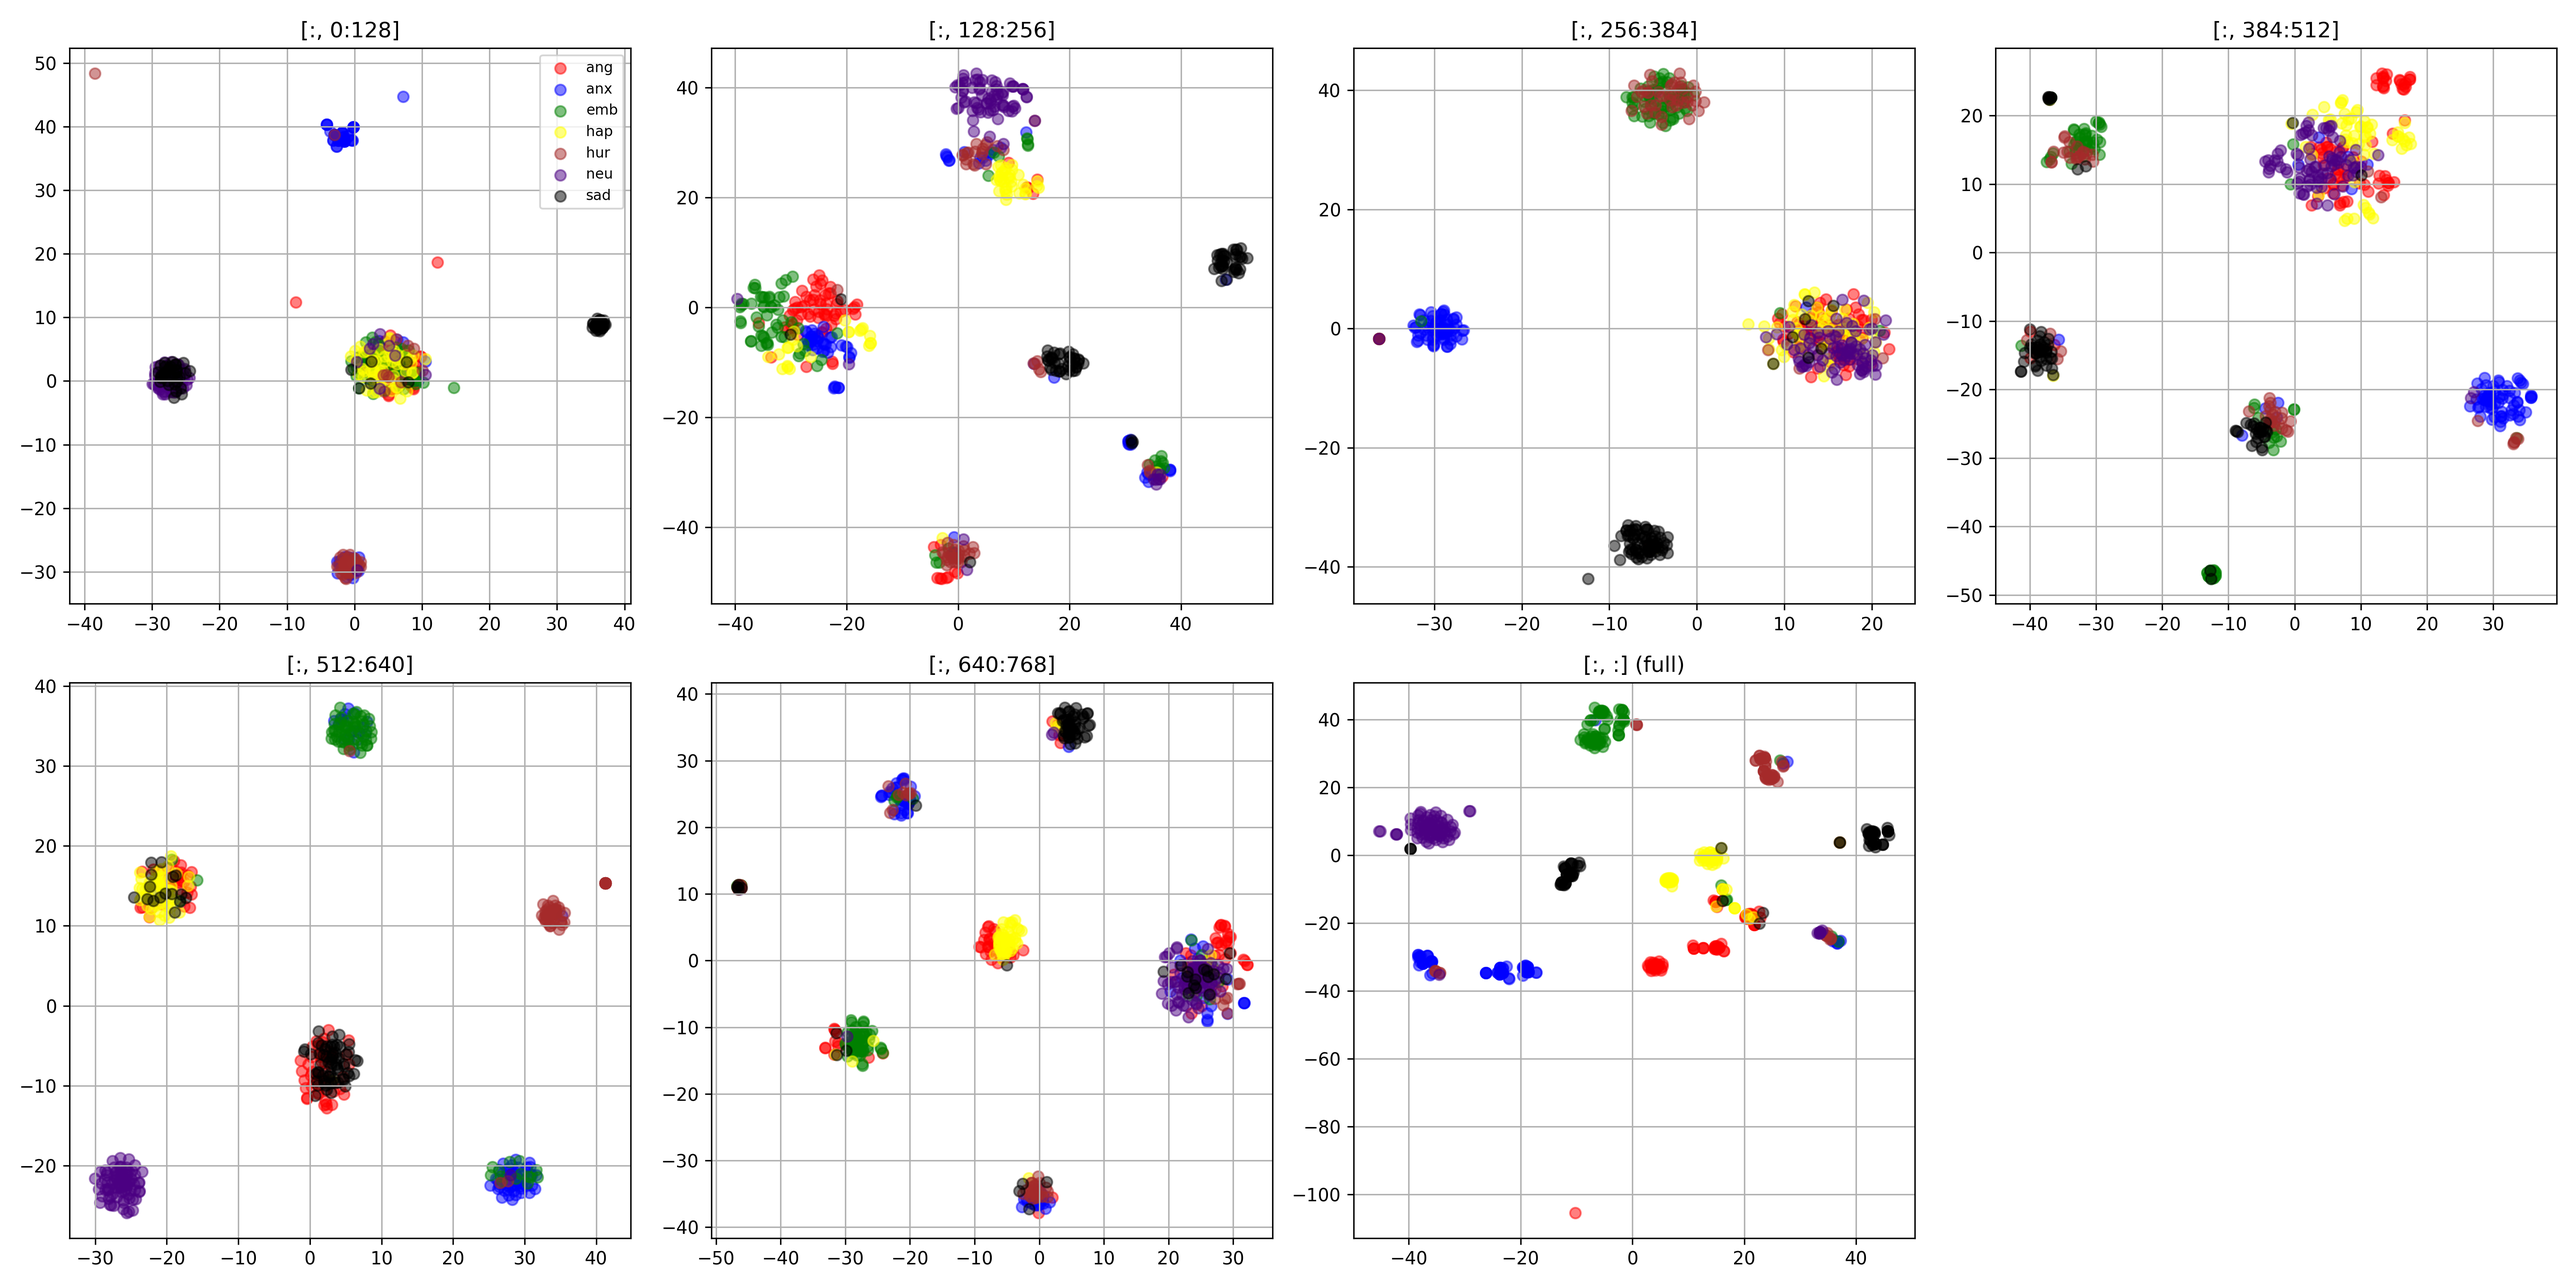
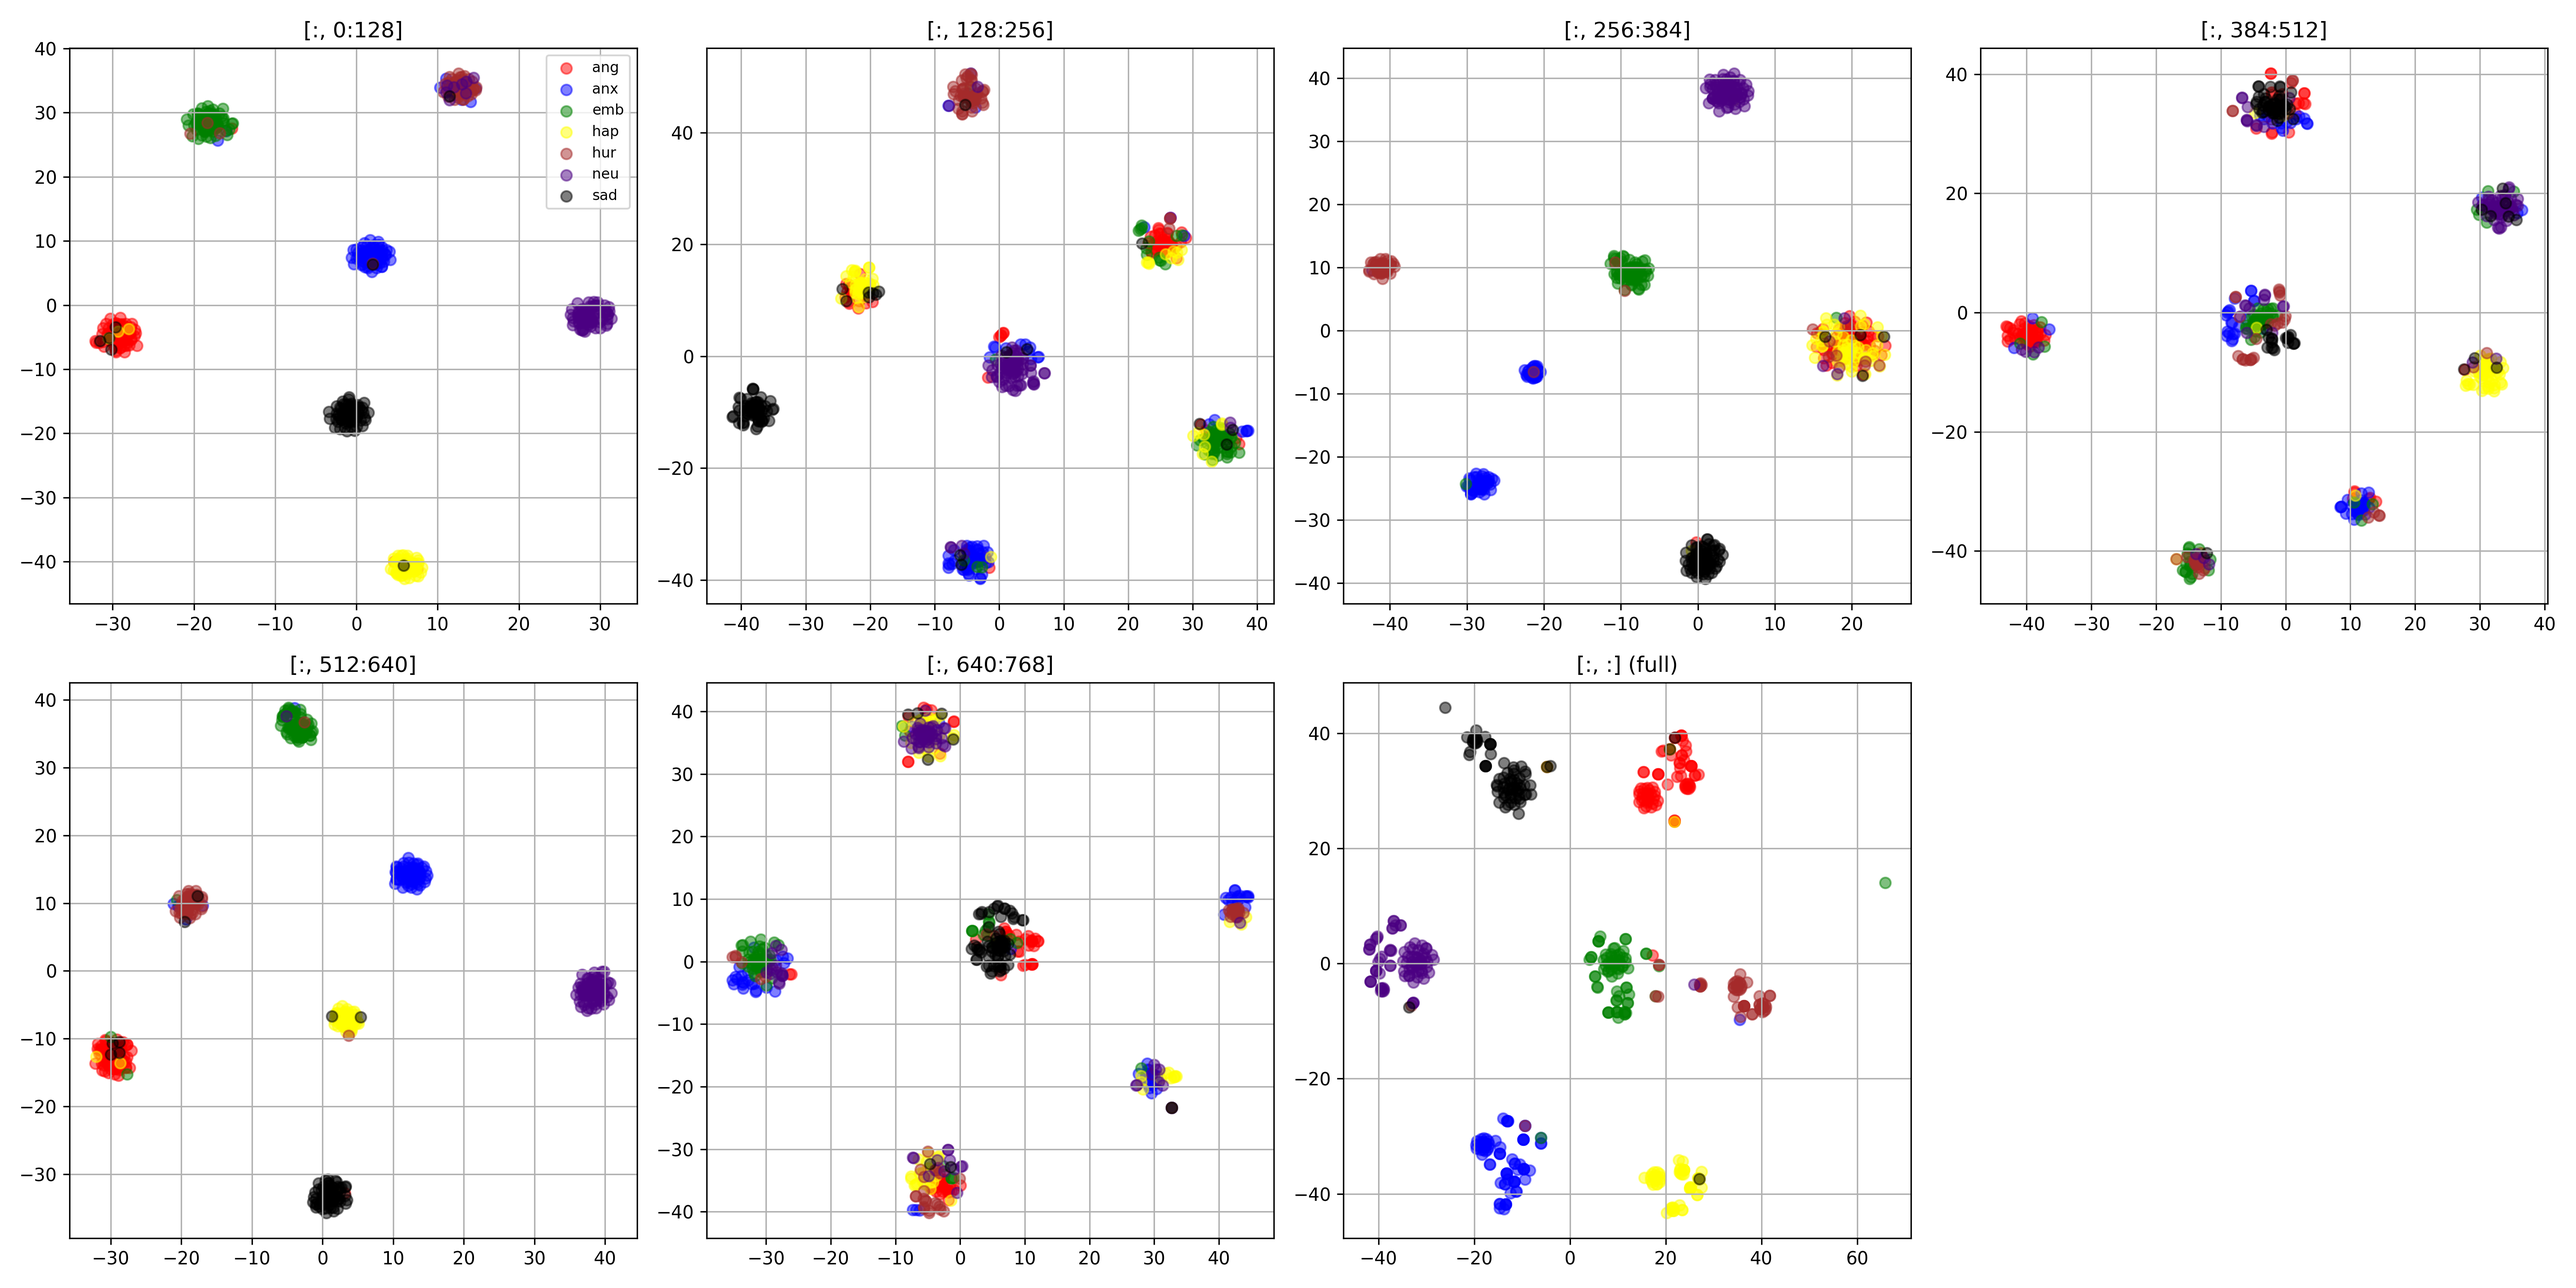
changed classifier loss beta (different)

diff --git a/train.py b/train.py
@@ -238,88 +238,96 @@ def train(rank, args, configs, batch_size, num_gpus):
         epoch += 1
         
 
-        val_path =  '/root/mydir/ICASSP2024_FS2-develop/ICASSP2024_FS2-develop/preprocessed_data/emo_kr_22050/train.txt'
+        # val_path =  '/root/mydir/ICASSP2024_FS2-develop/ICASSP2024_FS2-develop/preprocessed_data/emo_kr_22050/train.txt'
 
-        with open(val_path, encoding='utf-8') as f:
-            val_infos = [line.strip().split("|") for line in f]
+        # with open(val_path, encoding='utf-8') as f:
+        #     val_infos = [line.strip().split("|") for line in f]
 
-        import json
-        with open("preprocessed_data/emo_kr_22050/emotions.json") as f:
-            emotion_map = json.load(f)
+        # import json
+        # with open("preprocessed_data/emo_kr_22050/emotions.json") as f:
+        #     emotion_map = json.load(f)
 
-        val_basenames = []
-        emotions = []
-        styles = []
-        z_mels = []
-        z_pitchs = []
-        z_energies = []
+        # val_basenames = []
+        # emotions = []
+        # styles = []
+        # z_mels = []
+        # z_pitchs = []
+        # z_energies = []
 
-        for i in range(len(val_infos)):
-            if i % 25 != 0: continue
-            val_info = val_infos[i]
-            val_basenames.append(val_info[0])
-            emotions.append(emotion_map[val_info[2]])
+        # for i in range(len(val_infos)):
+        #     if i % 25 != 0: continue
+        #     val_info = val_infos[i]
+        #     val_basenames.append(val_info[0])
+        #     emotions.append(emotion_map[val_info[2]])
         
-        for i in range(len(val_basenames)):
-            val_basename = val_basenames[i]
-            emotion = torch.tensor(emotions[i], device=device).unsqueeze(0)
-            mel = np.load(f'preprocessed_data/emo_kr_22050/mel/{val_basename[:3]}-mel-{val_basename}.npy')
-            mel = torch.from_numpy(mel).float().to(device)
-            mel = mel.unsqueeze(0)
+        # for i in range(len(val_basenames)):
+        #     val_basename = val_basenames[i]
+        #     emotion = torch.tensor(emotions[i], device=device).unsqueeze(0)
+        #     mel = np.load(f'preprocessed_data/emo_kr_22050/mel/{val_basename[:3]}-mel-{val_basename}.npy')
+        #     mel = torch.from_numpy(mel).float().to(device)
+        #     mel = mel.unsqueeze(0)
 
-            pitch_path = f"/root/mydir/ICASSP2024_FS2-develop/ICASSP2024_FS2-develop/normalized_data/pitch_only/{val_basename}_pitch.npy"
-            energy_path = f"/root/mydir/ICASSP2024_FS2-develop/ICASSP2024_FS2-develop/normalized_data/energy_only/{val_basename}_energy.npy"
+        #     pitch_path = f"/root/mydir/ICASSP2024_FS2-develop/ICASSP2024_FS2-develop/normalized_data/pitch_only/{val_basename}_pitch.npy"
+        #     energy_path = f"/root/mydir/ICASSP2024_FS2-develop/ICASSP2024_FS2-develop/normalized_data/energy_only/{val_basename}_energy.npy"
             
-            pitch_mel = torch.from_numpy(np.load(pitch_path).T).to(device).unsqueeze(0)
-            energy_mel = torch.from_numpy(np.load(energy_path).T).to(device).unsqueeze(0)
+        #     pitch_mel = torch.from_numpy(np.load(pitch_path).T).to(device).unsqueeze(0)
+        #     energy_mel = torch.from_numpy(np.load(energy_path).T).to(device).unsqueeze(0)
             
-            # pitch_mel = pad_2D(pitch_mel)
-            # pitch_mel = torch.from_numpy(pitch_mel).to('cpu')
-            # energy_mel = pad_2D(energy_mel)print
-            # energy_mel = torch.from_numpy(energy_mel).to('cpu')
+        #     # pitch_mel = pad_2D(pitch_mel)
+        #     # pitch_mel = torch.from_numpy(pitch_mel).to('cpu')
+        #     # energy_mel = pad_2D(energy_mel)print
+        #     # energy_mel = torch.from_numpy(energy_mel).to('cpu')
 
-            z_mel, z_pitch, z_energy, cls_loss = model.ref_enc(mel, emotion, pitch_mel, energy_mel)
-            style, _, _, codebooks = model.style_extractor(z_mel, z_pitch, z_energy, cls_loss)
+        #     z_mel, z_pitch, z_energy, cls_loss = model.ref_enc(mel, emotion, pitch_mel, energy_mel)
+        #     style, _, _, codebooks = model.style_extractor(z_mel, z_pitch, z_energy, cls_loss)
 
-            z_mels.append(z_mel)
-            z_pitchs.append(z_pitch)
-            z_energies.append(z_energy)
-            styles.append(style)
+        #     z_mels.append(z_mel)
+        #     z_pitchs.append(z_pitch)
+        #     z_energies.append(z_energy)
+        #     styles.append(style)
 
-        z_mels = torch.cat(z_mels, dim=0)
-        z_pitchs = torch.cat(z_pitchs, dim=0)
-        z_energies = torch.cat(z_energies, dim=0)
-        styles = torch.cat(styles, dim=0)
+        # z_mels = torch.cat(z_mels, dim=0)
+        # z_pitchs = torch.cat(z_pitchs, dim=0)
+        # z_energies = torch.cat(z_energies, dim=0)
+        # styles = torch.cat(styles, dim=0)
 
-        if model.style_extractor.RVQ1.vq_layers[0].dead_codes_count() < (7/2):
-            model.style_extractor.RVQ1.vq_layers[0].greedy_restart()
-        else:
-            model.style_extractor.RVQ1.vq_layers[0].reset_dead_codes_kmeans(z_mels)
-
-        if model.style_extractor.RVQ1.vq_layers[1].dead_codes_count() < (7/2):
-            model.style_extractor.RVQ1.vq_layers[1].greedy_restart()
-        else:
-            model.style_extractor.RVQ1.vq_layers[1].reset_dead_codes_kmeans(z_pitchs)
         
-        if model.style_extractor.RVQ2.vq_layers[0].dead_codes_count() < (7/2):
-            model.style_extractor.RVQ2.vq_layers[0].greedy_restart()
-        else:
-            model.style_extractor.RVQ2.vq_layers[0].reset_dead_codes_kmeans(z_energies)
+        model.style_extractor.RVQ1.vq_layers[0].greedy_restart()
+        model.style_extractor.RVQ1.vq_layers[1].greedy_restart()
+        model.style_extractor.RVQ2.vq_layers[0].greedy_restart()
+        model.style_extractor.RVQ2.vq_layers[1].greedy_restart()
+        model.style_extractor.RVQ3.vq_layers[0].greedy_restart()
+        model.style_extractor.RVQ3.vq_layers[1].greedy_restart()
 
-        if model.style_extractor.RVQ2.vq_layers[1].dead_codes_count() < (7/2):
-            model.style_extractor.RVQ2.vq_layers[1].greedy_restart()
-        else:
-            model.style_extractor.RVQ2.vq_layers[1].reset_dead_codes_kmeans(z_mels - styles[:, :128])
+        # if model.style_extractor.RVQ1.vq_layers[0].dead_codes_count() < (7/2):
+        #     model.style_extractor.RVQ1.vq_layers[0].greedy_restart()
+        # else:
+        #     model.style_extractor.RVQ1.vq_layers[0].reset_dead_codes_kmeans(z_mels)
 
-        if model.style_extractor.RVQ3.vq_layers[0].dead_codes_count() < (7/2):
-            model.style_extractor.RVQ3.vq_layers[0].greedy_restart()
-        else:
-            model.style_extractor.RVQ3.vq_layers[0].reset_dead_codes_kmeans(z_pitchs - styles[:, 256:384])
+        # if model.style_extractor.RVQ1.vq_layers[1].dead_codes_count() < (7/2):
+        #     model.style_extractor.RVQ1.vq_layers[1].greedy_restart()
+        # else:
+        #     model.style_extractor.RVQ1.vq_layers[1].reset_dead_codes_kmeans(z_pitchs)
+        
+        # if model.style_extractor.RVQ2.vq_layers[0].dead_codes_count() < (7/2):
+        #     model.style_extractor.RVQ2.vq_layers[0].greedy_restart()
+        # else:
+        #     model.style_extractor.RVQ2.vq_layers[0].reset_dead_codes_kmeans(z_energies)
 
-        if model.style_extractor.RVQ3.vq_layers[1].dead_codes_count() < (7/2):
-            model.style_extractor.RVQ3.vq_layers[1].greedy_restart()
-        else:
-            model.style_extractor.RVQ3.vq_layers[1].reset_dead_codes_kmeans(z_energies - styles[:, 512:640])
+        # if model.style_extractor.RVQ2.vq_layers[1].dead_codes_count() < (7/2):
+        #     model.style_extractor.RVQ2.vq_layers[1].greedy_restart()
+        # else:
+        #     model.style_extractor.RVQ2.vq_layers[1].reset_dead_codes_kmeans(z_mels - styles[:, :128])
+
+        # if model.style_extractor.RVQ3.vq_layers[0].dead_codes_count() < (7/2):
+        #     model.style_extractor.RVQ3.vq_layers[0].greedy_restart()
+        # else:
+        #     model.style_extractor.RVQ3.vq_layers[0].reset_dead_codes_kmeans(z_pitchs - styles[:, 256:384])
+
+        # if model.style_extractor.RVQ3.vq_layers[1].dead_codes_count() < (7/2):
+        #     model.style_extractor.RVQ3.vq_layers[1].greedy_restart()
+        # else:
+        #     model.style_extractor.RVQ3.vq_layers[1].reset_dead_codes_kmeans(z_energies - styles[:, 512:640])
 
 
         # model.style_extractor.RVQ1.vq_layers[0].reset_dead_codes_kmeans(z_mels)

diff --git a/model/loss.py b/model/loss.py
@@ -185,13 +185,18 @@ class FastSpeech2Loss(nn.Module):
         classifier_loss = torch.zeros_like(mel_loss)
         # for min_encoding_indice in min_encoding_indices:
         orig_style_ref_embs = [orig_style_ref_embs[:, :128], orig_style_ref_embs[:, 128:256], orig_style_ref_embs[:, 256:384], orig_style_ref_embs[:, 384:512], orig_style_ref_embs[:, 512:640], orig_style_ref_embs[:, 640:768]]
-        
+        idx = 0
         for style_ref_emb in orig_style_ref_embs:
             emotions = inputs[3]
             anchor, positive, negative = create_triplet_samples(style_ref_emb, emotions)
-
+            if idx % 2 == 0:
+                beta = 0.5
+            else:
+                beta = 0.1
             if anchor is not None:
-                classifier_loss += self.triplet_margin_loss_fn(anchor, positive, negative) * 0.5
+                classifier_loss += self.triplet_margin_loss_fn(anchor, positive, negative) * beta
+
+            idx += 1
 
 
                                 

diff --git a/model/residual_vq_gaeun.py b/model/residual_vq_gaeun.py
@@ -594,7 +594,7 @@ class VectorQuantizer_kmeans(nn.Module):
             self.embedding.weight[dead_codes] = self.embedding.weight[top_codes]
 
         print(f"[reset_dead_codes_greedy] Replaced {len(dead_codes)} dead codes "
-            f"with most frequently used codes.")
+            f"with most frequently used codes {len(top_codes)}.")
 
     
 
